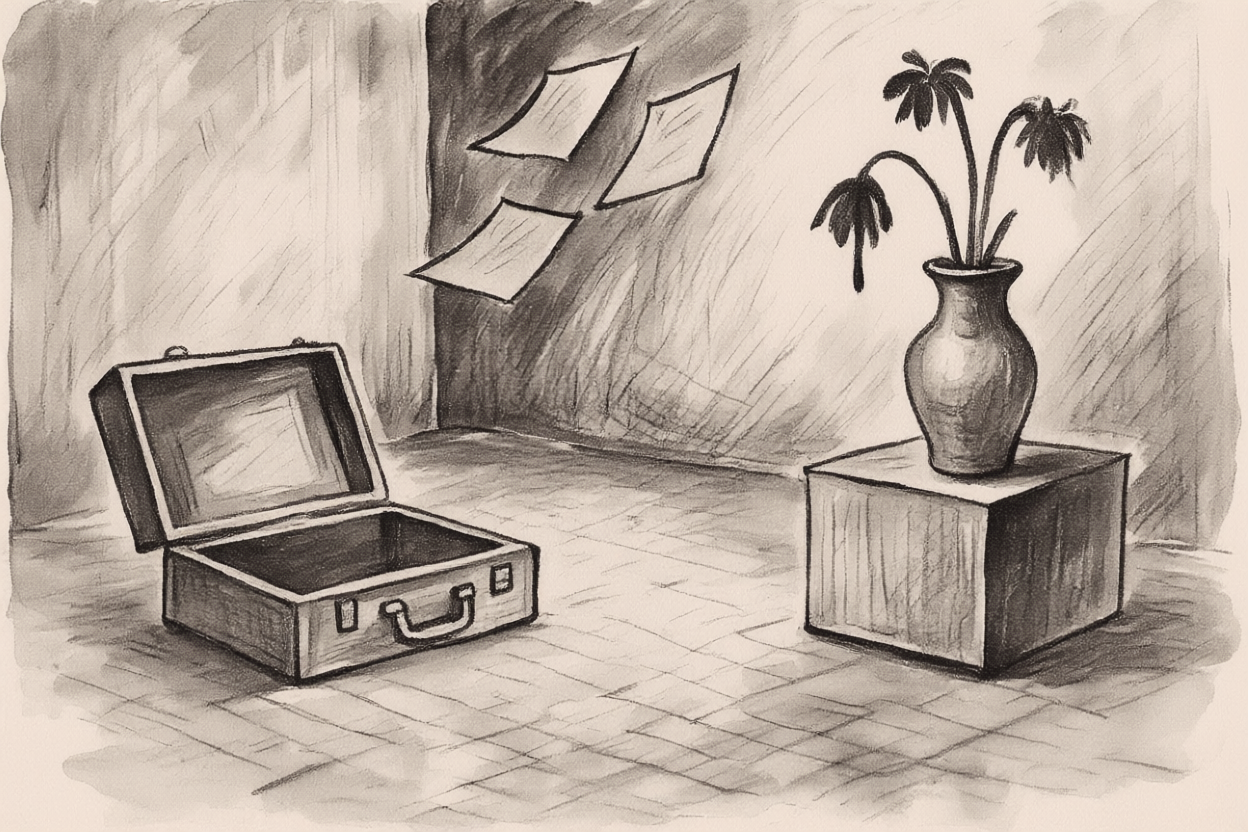
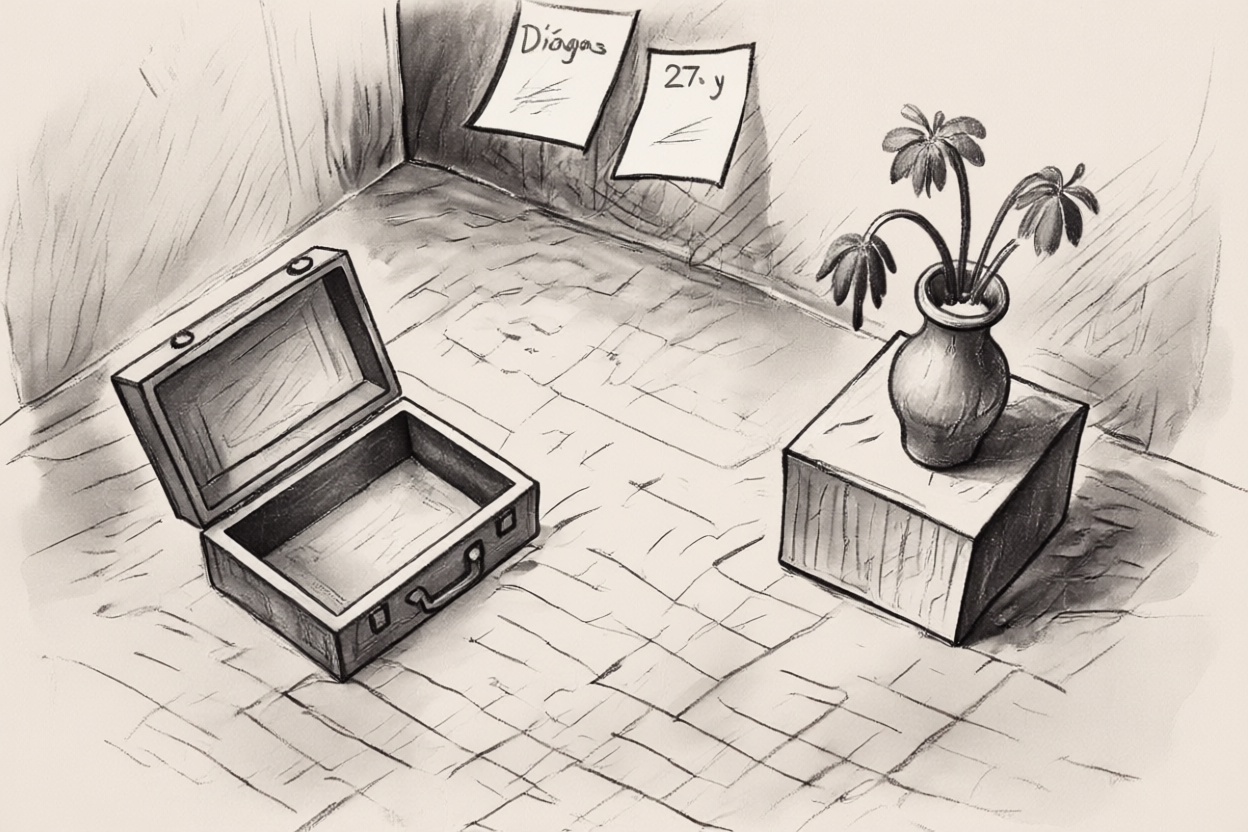
feat: añadir análisis 11 y actualizar reseñas en README.md

diff --git a/music/[AI]nalisis/analisis11.md b/music/[AI]nalisis/analisis11.md
@@ -1,0 +1,64 @@
+# Reseña de *Fábulas sin moraleja - Ocho cuentos nocturnos (y una coda) sin redención* de Morgan Bill**  
+
+*by el tío Qwenceslao*
+
+---
+
+## **Introducción:**  
+*Morgan Bill* presenta un álbum conceptual que redefine la desesperanza como un arte. *Fábulas sin moraleja* no es solo un disco, sino un *laboratorio de dolor* donde la redención se evita intencionalmente, dejando al oyente sumido en un universo de soledad, autodesprecio y críticas sociales. Con Barcelona como telón de fondo y figuras como Diógenes o Caín como espejos de la condición humana, el álbum construye una narrativa sin esperanza, pero con una crudeza poética que lo eleva a más que un ejercicio de melancolía.  
+
+---
+
+## **Análisis temático:**  
+
+### **1. La soledad como estado natural:**  
+Desde la primera nota de *"Avenida Meridiana"*, la soledad emerge como un paisaje constante. La lluvia, las ventanas sin luz y las estaciones abandonadas simbolizan un aislamiento que no busca compañía, sino *aceptar la incomunicación*. En *"Que una línea traiga tu voz"*, incluso la voz buscada del otro (o Dios) se desvanece, reforzando la idea de que la conexión es un mito.  
+
+### **2. La crisis del arte y la creación vacía:**  
+Morgan Bill disecciona el arte como un *fallo sistemático*. En *"Las ventanas"*, los "alejandrinos carentes de convicción" y en *"Hay poesía"* la crítica hacia la escritura sin alma revelan una autocrítica radical: el arte no redime, solo expone la fragilidad. La "poesía" surge en lo cotidiano (llamadas no contestadas, sábados vacíos), no en lo grandilocuente, lo que subvierte la pretensión artística.  
+
+### **3. La muerte como continuación de la vida:**  
+En *"Obituario"*, la muerte no es un misterio, sino un "total de morirse aún nadie se ha muerto": una verdad nihilista que desarma cualquier moraleja. *"Diógenes"* cierra este ciclo con un viaje sin retorno, donde el personaje carga sus penas como un penitente que no busca perdón.  
+
+### **4. Culpa colectiva y crítica social:**  
+La figura de Diógenes en la estación de Sants y la "sacristía del templo de una sociedad" en *"Diógenes"* señalan una crítica feroz hacia instituciones que explotan la fe y la desesperación. El "Club de los 27" no es un ideal, sino un símbolo de fracaso colectivo (*"quedó a las puertas del selecto club"*), donde la edad es un enemigo que devora sin piedad.  
+
+---
+
+## **Análisis musical:**  
+
+### **Estilo y producción:**  
+El álbum navega entre **rock gótico, folk melancólico y psicodelia oscura**, con influencias de Joy Division, Nick Cave y Leonard Cohen. La producción prioriza la *textura atmosférica*:  
+- **Ritmos lentos y pulsantes** en canciones como *"Plácida insurrección"* refuerzan la parálisis emocional.  
+- **Guitarras distorsionadas** y efectos de eco (*"Caín"*) evocan pesadillas y realidades fracturadas.  
+- **Instrumentación minimalista** (*piano, flauta*) en *"Hay poesía"* y *"Que una línea..."* subrayan la vulnerabilidad.  
+- **Ambient y sonidos urbanos** (*"Diógenes"*) sitúan al oyente en la Barcelona de la desesperanza.  
+
+### **Originalidad:**  
+La fusión de referencias clásicas (Diógenes, Caín) con espacios urbanos modernos (Poblenou, Sants) genera una **narrativa geográfica poética**, donde la ciudad es un personaje más. La repetición del leitmotiv *"que una línea traiga tu voz"* actúa como un hilo conductor de desesperación.  
+
+---
+
+## **Crítica constructiva:**  
+
+### **Fortalezas:**  
+1. **Originalidad simbólica:** Metáforas como *"azulado-represión"*, *"sepultura del alma"*, o la adaptación de Diógenes son frescas y cargadas de significado.  
+2. **Coherencia conceptual:** Todos los temas giran en torno a la *falta de redención*, sin caer en redundancias temáticas.  
+3. **Crítica social incisiva:** No solo se centra en el individuo, sino en cómo estructuras sociales y morales perpetúan el sufrimiento.  
+4. **Honestidad brutal:** La autocrítica hacia el arte y la búsqueda fallida de significado añaden profundidad existencial.  
+
+### **Debilidades:**  
+1. **Ambigüedad excesiva:** Frases como *"genuflexas posiciones de lujuria y oración"* o *"texturas vacías en cuadros que nadie verá"* requieren interpretación, lo que podría distanciar a oyentes que buscan mensajes directos.  
+2. **Riesgo de monotonía:** La persistencia del tono nihilista, aunque coherente, podría agobiar a quienes esperan un ápice de esperanza o redención.  
+3. **Referencias culturales densas:** La inclusión de Diógenes o el Club de los 27, aunque brillantes, podrían perderse si el oyente no tiene contexto.  
+
+---
+
+## **Conclusión:**  
+*Fábulas sin moraleja* no es un álbum para los débiles de corazón, pero sí una obra que redefine la desesperanza como un acto de resistencia. Morgan Bill no ofrece consuelo, sino un espejo crudo donde el oyente ve reflejada la *imposibilidad de escapar de uno mismo*. La coda *"Diógenes"* cierra el ciclo con un grito silencioso: la redención no existe, y en eso radica su fuerza.  
+
+**Valoración final:**  
+Un álbum **obligatorio para quienes buscan música que no solo se escucha, sino que se sufre y se piensa.** Aunque su tono inquebrantablemente oscuro limita su accesibilidad, su originalidad y honestidad lo convierten en un hito en la exploración de la condición humana sin filtros.  
+
+**Calificación:** ★★★★☆ (4/5 estrellas)  
+*Recomendado para amantes del rock conceptual, la poesía oscura y el análisis existencial.*

diff --git a/music/README.md b/music/README.md
@@ -256,5 +256,4 @@ cargó en la mochila sus mejores penas, durmiendo se irá...
 
 ## Reseñas (by AIs)
 
-[1]([AI]nalisis/analisis01.md) / [2]([AI]nalisis/analisis02.md) / [3]([AI]nalisis/analisis03.md) / [4]([AI]nalisis/analisis04.md) / [5]([AI]nalisis/analisis05.md) / [6]([AI]nalisis/analisis06.md) / [7]([AI]nalisis/analisis07.md) / [8]([AI]nalisis/analisis08.md) / [9]([AI]nalisis/analisis09.md) / [10]([AI]nalisis/analisis10.md)
-
+[1]([AI]nalisis/analisis01.md) / [2]([AI]nalisis/analisis02.md) / [3]([AI]nalisis/analisis03.md) / [4]([AI]nalisis/analisis04.md) / [5]([AI]nalisis/analisis05.md) / [6]([AI]nalisis/analisis06.md) / [7]([AI]nalisis/analisis07.md) / [8]([AI]nalisis/analisis08.md) / [9]([AI]nalisis/analisis09.md) / [10]([AI]nalisis/analisis10.md) / [11]([AI]nalisis/analisis11.md)
